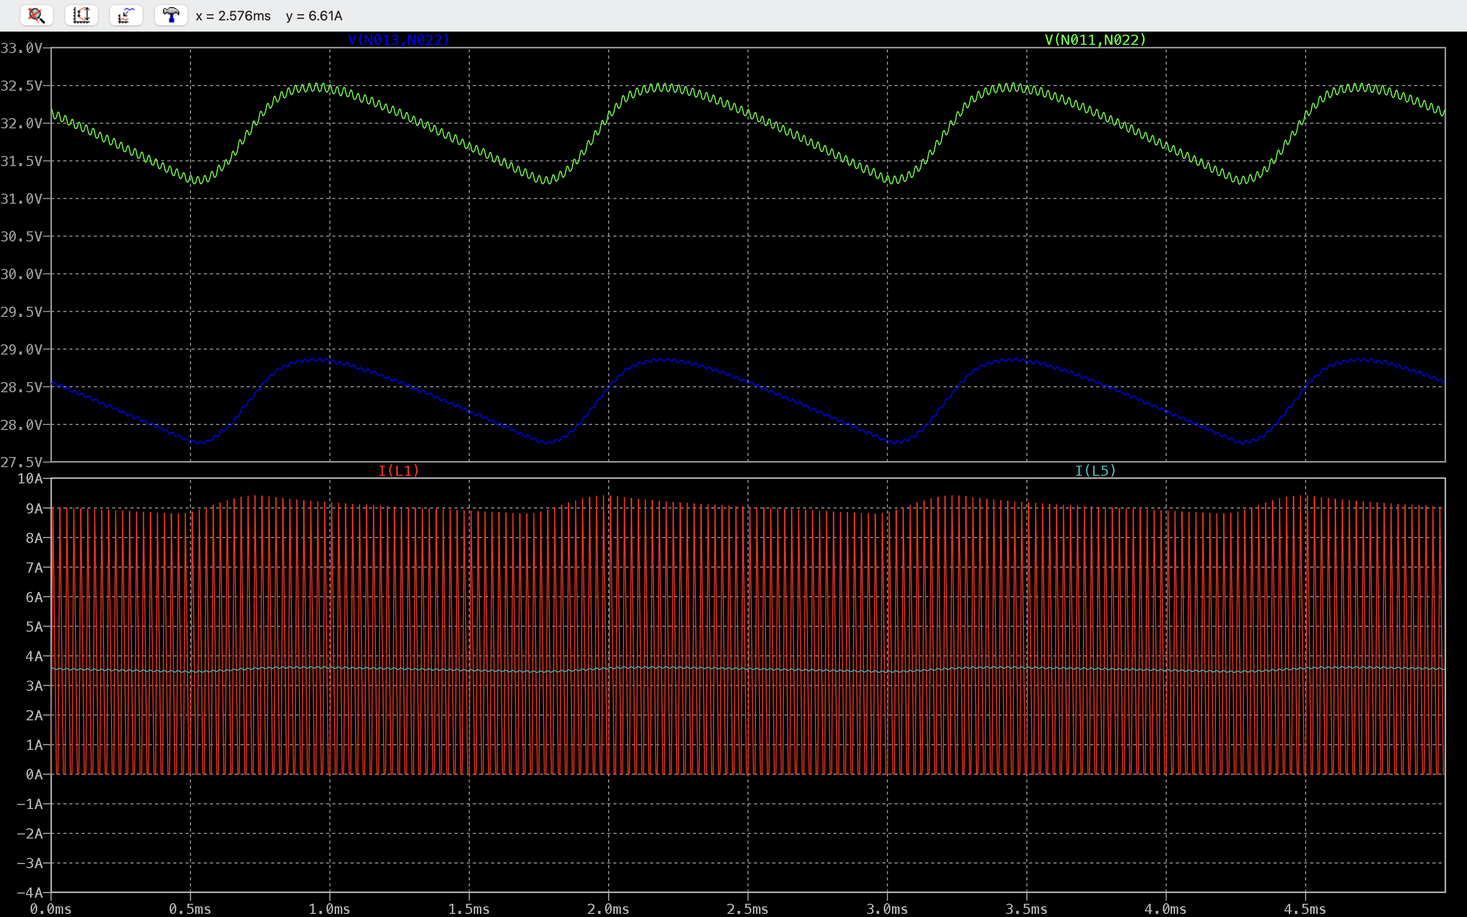
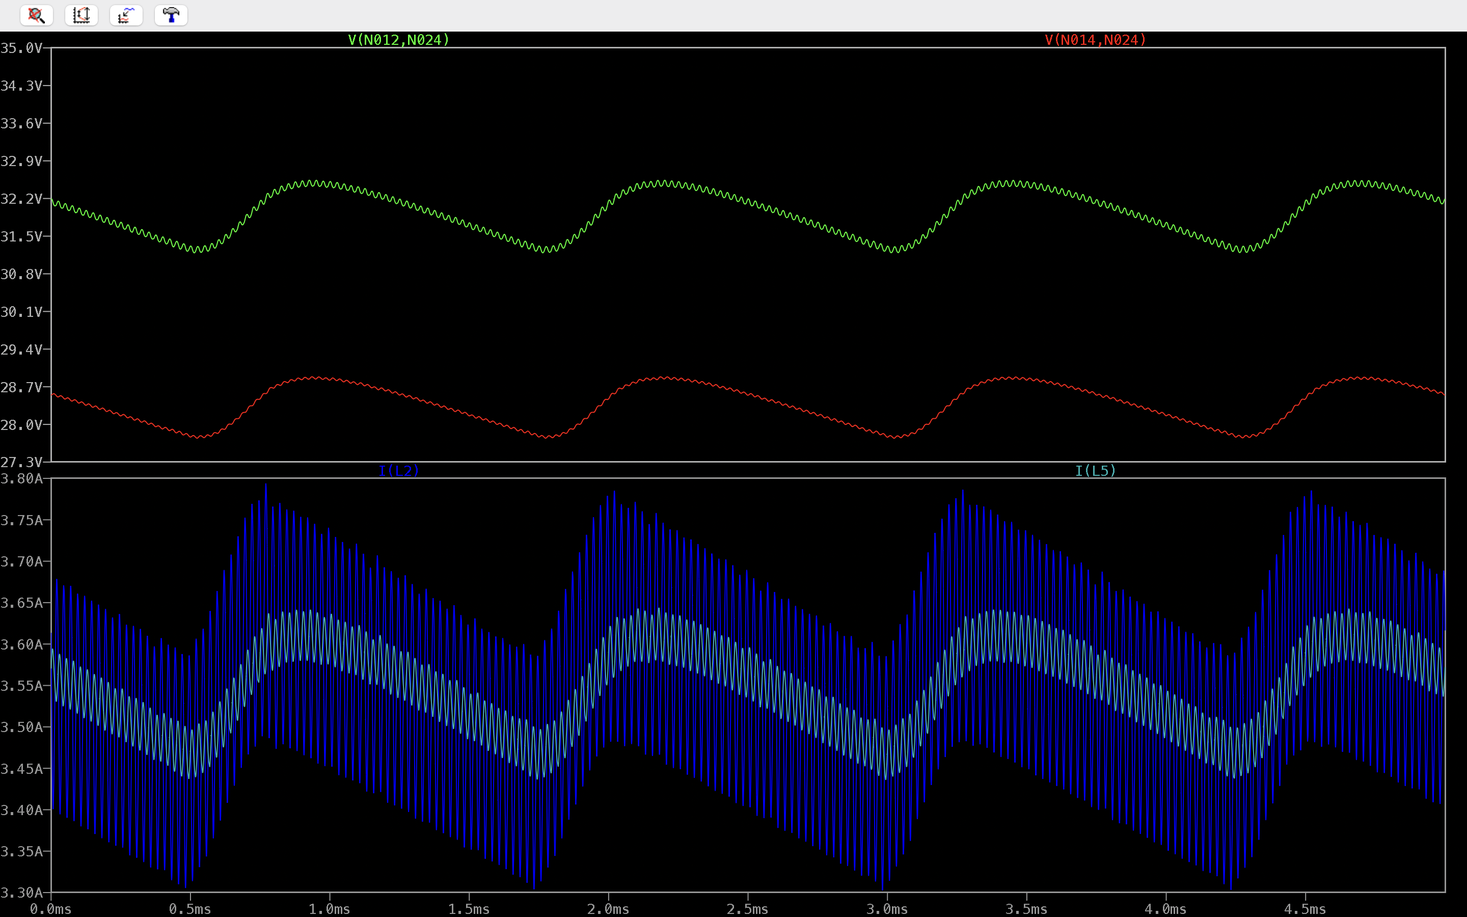
eep572 approaching end of paper writing

diff --git a/eep579_electromagnetic_compatibility/Assignments/final_project/report/final_project_paper.tex b/eep579_electromagnetic_compatibility/Assignments/final_project/report/final_project_paper.tex
@@ -91,7 +91,7 @@ Set A's waveform 4 injects a peak voltage that peaks according to a time variabl
 
 \subsection{High-Level Overview}
 
-Figure \ref{fig:ac_dc_converter_ideal_diagram} presents a high-level overview of an ideal AC-DC converter. The team opted to implement a modified 115$V_{AC}$ - 28$V_{DC}$ AC-DC converter that removed the transformer from the circuit as shown in Figure \ref{fig:ac_dc_converter_implemented_diagram}. Although an AC-DC converter may typically include a transformer to reduce common-mode noise when stepping down the $V_{AC}$, the team decided to eliminate the component to increase noise within the circuit's power path and instead, demonstrate the impact that proper filtering would have on load voltage and current. In practical applications found in the industry, if size and weight were not constraints, then a transformer would likely be included.
+Figure \ref{fig:ac_dc_converter_ideal_diagram} presents a high-level overview of an ideal AC-DC converter. The team opted to implement a modified 115$V_{AC}$ - 28$V_{DC}$ AC-DC converter that removed the transformer from the circuit as shown in Figure \ref{fig:ac_dc_converter_implemented_diagram}. Although an AC-DC converter may typically include a transformer to reduce common-mode noise when stepping down the $V_{AC}$, the team decided to eliminate the component to increase noise within the circuit's power path and instead, demonstrate the impact that proper filtering would have on load voltage and current. In practical applications found in the industry, if size and weight were not constraints, then a transformer would likely be included. Please refer to Appendix A for an image of the final AC-DC circuit design.
 
 \begin{figure}[htbp]
     \centering
@@ -109,7 +109,7 @@ Figure \ref{fig:ac_dc_converter_ideal_diagram} presents a high-level overview of
 
 \subsection{Input Filter}
 
-The input filter consists of two sub-circuits: (1) a pair of line-to-chassis ground capacitors and (2) a pair of RLC filters. The line-to-chassis ground Y-capacitors handle common-mode noise from the 115$V_{AC}$ input rail. Meanwhile, the two RLC circuits stabilize the voltage input of the full-wave rectifier. The two RLC circuit design, one per power rail, is borrowed from common industry best practices. Based on simulations, two RLC circuits moved the peak AC voltage down versus a single RLC circuit block. The trade-off between the inclusion of the damping resistors versus increased power consumption is okay for the main objectives of the project. Based on simulations, there was very little common-mode noise on the input of the 115$V_{AC}$ to 28$V_{DC}$, so no common-mode was included in the design. Refer to Figure \ref{fig:input_filter_top_level_diagram} for the top-level design of the input filter. 
+The input filter consists of four sub-circuits: (1) a pair of line-to-chassis ground capacitors (2) a pair of RLC filters (3) a TVS protection diode, and (4) a common-mode choke. The line-to-chassis ground Y-capacitors handle common-mode noise from the 115$V_{AC}$ input rail. Meanwhile, the two RLC circuits stabilize the voltage input of the full-wave rectifier. The two RLC circuit design, one per power rail, is borrowed from common industry best practices. Based on simulations, two RLC circuits moved the peak AC voltage down versus a single RLC circuit block. The trade-off between the inclusion of the damping resistors versus increased power consumption is okay for the main objectives of the project. Based on simulations, there was very little common-mode noise on the input of the 115$V_{AC}$ to 28$V_{DC}$, but a common-mode choke was still added to the input filter to block any common-mode noise coming from the outside world. Additionally, the common-mode choke will choke a lightning strike's commom-mode  input from impacting the rest of the circuit. A bidirectional TVS protection diode was added to meet DO-160G's lightning susceptibility requirements on the input side of the AC-DC converter. The diode will act as a low resistance path to ground when a large differential voltage spike occurs on the input line, which will protect the rest of the circuit since the voltage after the diode will remain constant while any current from transient voltage spikes are shunted to the return path. The diode is rated to shunt a differential lightning threat $>200V$. Refer to Figure \ref{fig:input_filter_top_level_diagram} for the top-level design of the input filter. 
 
 \begin{figure}[htp]
     \centering
@@ -138,24 +138,24 @@ Directly after the AC input filters, the AC signal is fed into a full-wave bridg
 
 A full-wave bridge rectifier was implemented because of its efficiency in comparison to a half-wave rectifier. The LTSpice model is shown in Figure \ref{fig:full-wave_bridge_rectifier_circuit_diagram}. For a full-wave rectifier, both cycles of the AC signal are converted into the DC signal. For a half-wave rectifier, only a single half cycle of the AC signal is transferred, while the other half cycle is blocked. 
 
-\begin{figure}[htp]
+\begin{figure}[hbp]
     \centering
-    \includegraphics[width=1.0\linewidth]{full-wave_bridge_rectifier_circuit.png}
+    \includegraphics[width=0.5\linewidth]{full-wave_bridge_rectifier_circuit.png}
     \caption{Full-Wave Bridge Rectifier Circuit}
     \label{fig:full-wave_bridge_rectifier_circuit_diagram}
 \end{figure}
 
 \subsection{Buck Converter}
-After the full-wave bridge rectifier is a Buck Converter. A buck converter is a DC-DC converter that steps down the DC input voltage using a voltage-controlled switch to generate a PWM output. After the PWM output, there is a bulk LC filter. The primary purpose of the bulk inductor and capacitor is to generate a stable stepped down DC output from the switching regulator's PWM input voltage. High-frequency noise introduced by the switching regulator will be handled by a separate block of output filtering components rather than by the bulk inductor and capacitor components. See Figure \ref{fig:buck_converter_circuit_diagram} for a diagram of a buck converter circuit.
+After the full-wave bridge rectifier is a Buck Converter. A buck converter is a DC-DC converter that steps down the DC input voltage using a voltage-controlled switch to generate a PWM output. After the PWM output, there is a bulk LC filter. The primary purpose of the bulk inductor and capacitor is to generate a stable stepped down DC output from the switching regulator's PWM input voltage. High-frequency noise introduced by the switching regulator will be handled by a separate block of output filtering components rather than by the bulk inductor and capacitor components. See Figure \ref{fig:buck_converter_circuit_diagram} for a generic diagram of a buck converter circuit.
 
 \begin{figure}[htp]
     \centering
     \includegraphics[width=1.0\linewidth]{buck_converter_circuit.png}
     \caption{Buck Converter Circuit}
-    \label{fig:buck_converter_circuit_diagram}
+    \label{fig:Buck Converter Voltage Output_circuit_diagram}
 \end{figure}
 
-The bulk inductor resists changes in current, so when the switch is turned off, it attempts to keep the current constant. Meanwhile, the bulk capacitor resists changes in voltage, and thus attempts to keep the output voltage constant. The LC circuit includes a protection diode to prevent the switch from being damaged by a reverse voltage spike from the inductor's stored energy when the switch turns ON again. In contrast, when the switch is turned OFF, the forward bias of the protection diode allows the inductor to discharge its stored current. See Figure \ref{fig:buck_converter_waveform_diagram} for a diagram of the expected output waveforms of the buck converter.
+The bulk inductor resists changes in current, so when the switch is turned off, it attempts to keep the current constant. Meanwhile, the bulk capacitor resists changes in voltage, and thus attempts to keep the output voltage constant. The LC circuit includes a protection diode to prevent the switch from being damaged by a reverse voltage spike from the inductor's stored energy when the switch turns ON again. In contrast, when the switch is turned OFF, the forward bias of the protection diode allows the inductor to discharge its stored current. See Figure \ref{fig:Buck Converter Voltage Output_waveform_diagram} for a diagram of the expected output waveforms of the buck converter.
 
 \begin{figure}[htp]
     \centering
@@ -166,12 +166,19 @@ The bulk inductor resists changes in current, so when the switch is turned off, 
 
 The team decided to move away from a linear regulator because the circuit is not as power-efficient as a switching regulator. The drawback of using a switching regulator is the voltage ripple introduced onto the DC output power rail due to the switching frequency. The switching noise and its harmonics will require output filtering to minimize the voltage ripple seen by the load and to guarantee that the conducted emissions of our circuit are below the DO-160G EMI conducted emissions threshold. 
 
-The switching voltage regulator will not use a feedback loop for auto-adjustment of the switch's duty cycle. For a power rail, typically a feedback loop would be used to adjust the switch's duty cycle so that the power rail can maintain a 28$V_{DC}$ output across a range of loads. The scope of this course focuses on EMI compliance and circuit design, so the 28$V_{DC}$ output will be optimized to meet the objective of 100$W$ power output in compliance with the DO-160G standard. If this were a power electronics course, then the team would have opted to design a feedback loop to the switching regulator so that the 115$V_{AC}$ to 28$V_{DC}$ converter would be complaint across loads.
+The switching voltage regulator will not use a feedback loop for auto-adjustment of the switch's duty cycle. For a power rail, typically a feedback loop would be used to adjust the switch's duty cycle so that the power rail can maintain a 28$V_{DC}$ output across a range of loads. The scope of this course focuses on EMI compliance and circuit design, so the 28$V_{DC}$ output will be optimized to meet the objective of 100$W$ power output in compliance with the DO-160G standard. If this were a power electronics course, then the team would have opted to design a feedback loop to the switching regulator so that the 115$V_{AC}$ to 28$V_{DC}$ converter would be compliant across loads. See Figure \ref{buck_converter_final_design.png} for the final design of the buck converter.
+
+\begin{figure}[htp]
+    \centering
+    \includegraphics[width=0.7\linewidth]{buck_converter_final_design.png}
+    \caption{Final Design of Buck Converter Subcircuit of AC-DC Converter}
+    \label{fig:buck_converter_final_design_diagram}
+\end{figure}
 
 \subsection{Output Filter}
 The output filter for this current circuit design must suppress the noise introduced by the switching regulator in the 150${kHz}$ - 152${MHz}$ range, prevent common-mode noise from propagating to the load and from the load side, and eliminate differential-mode noise from the load. 
 
-The output filter design is presented in Figure \ref{fig:output_filter_top_level_diagram}. The output filter consists of two stages of RLC filtering, followed by unit-side line-to-chassis ground Y-capacitors, a common-mode choke, and load-side line-to-chassis ground Y-capacitors. Each sub-circuit of the output filter will be further analyzed.
+The output filter consists of four sub-circuits: (1) first stage RLC filter, (2) a second stage RLC filter, (3) a common-mode choke and common-mode Y-capacitors on the unit-side and load-side of the converter, and (4) a TVS protection diode for handling lightning susceptibility on the load side of the AC-DC converter. The output filter design is presented in Figure \ref{fig:output_filter_top_level_diagram}.
 
 \begin{figure}[htp]
     \centering
@@ -184,22 +191,25 @@ As part of the output filter deconstruction, two RLC filters implemented to atta
 
 RLC filters were chosen for their damping resistor. Damping was considered necessary for two reasons. First, although the noise across the load was below the DO-160G emissions line, the margin was 2${db}$ for a harmonic of the switching regulator noise. To increase the margin, an LC filter with a larger capacitor or inductance could have been applied. The risk of increasing the capacitance or inductance was that the LC filter's resonance was already in the middle of the AFCS range, and increasing the capacitor or inductor value does not eliminate our resonant frequency risk. So, a low value damping resistor is included to provide a sufficient damping factor (>1) while balancing power consumption by the set of damping resistors.
 
-The second part of the output filter consists of a common-mode choke and Y-capacitors from rail-to-chassis ground on both the unit-side and load-side of the choke. From simulation, the common-mode noise was minimal, but we think it's good design practice to isolate the unit-side's common-mode noise and the load-side's common-mode noise.
+The third part of the output filter consists of a common-mode choke and Y-capacitors from rail-to-chassis ground on both the unit-side and load-side of the choke. From simulation, the common-mode noise was minimal, but we think it's good design practice to isolate the unit-side's common-mode noise and the load-side's common-mode noise. More importantly, the common-mode choke will protect against a common-mode lightning strike threat.
 
-\section{Simulation Setup}
-
-\subsection{Input Filter}
-
-\subsection{Full-Wave Bridge Rectifier}
-To model the full-wave bridge rectifier in LTSpice, t
-
-\subsection{Buck Converter}
-\subsubsection{Buck Converter Power Efficiency Estimation}
-\subsubsection{LC Filter Calculation}
-\subsection{Output Filter}
-
+The fourth part of the output filter consists of a unidirectional TVS protection diode, which protects against differential lightning threats $>50V$. As the converter only supports output current in one direction, the diode can be unidirectional.
 
 \section{Results}
+To evaluate the circuit design, components were selected to achieve the desired cutoff frequency while providing sufficient damping to minimize resonant behavior.
+
+The following formula was used to calculate the damping factor for all RLC filters in the design.
+$$ \text{Damping Factor} = \zeta = \frac{R}{2} \sqrt{\frac{C}{L}}$$
+
+AC sweeps were conducted on the input filter and on the output filter to determine their resonance frequencies with respect to the AFCS range. The resonance frequencies were then fed back into the design to size the value of the damping resistors $R$ to achieve a sufficient damping factor $\zeta$. The challenge of sizing the damping resistor was balancing the damping factor and the AC-DC converter's power efficiency. See Figure for an example on sizing the two-stage RLC output filters.
+
+\begin{figure}[htp]
+    \centering
+    \includegraphics[width=1.0\linewidth]{resonance_frequency_design_feedback_results.png}
+    \caption{Two-Stage RLC Filter Damping Resistor Sizing with Respect to AFCS frequency range}
+    \label{fig:resonance_frequency_design_feedback_results_waveform}
+\end{figure}
+
 \subsection{Input Filter}
 
 The input filter's RLC circuit, which lies between the full-wave bridge rectifier and the ac voltage source, forces the current across R2 to retain most of its ac sine wave characteristic. There are large current spikes on the ac input that occur as the signal oscillates, see Figure \ref{fig:ac_input_waveform}. The spikes are attributable to the diodes of the full-wave rectifier reaching their threshold voltage, which allows current to flow and charge the bulk capacitor of the full-wave bridge rectifier.
@@ -220,7 +230,7 @@ The common-mode noise from the ac input was very small and occurred when the dio
     \label{fig:ac_input_common_mode_y_cap_noise_waveform}
 \end{figure}
 
-The current measurement across R11 demonstrates how the inductor, L6, resists changes in current from the 115 $V_{ac}$ source and smooths the input waveform. The current across the RLC's capacitor, C16, is high-frequency noise shunted to the negative rail. The current after capacitor C16, measured across $R5$, is a clean ac input, see Figure \ref{fig:ac_input_rlc_waveforms}
+The current measurement across $R11$ demonstrates how the inductor, $L6$, resists changes in current from the 115 $V_{ac}$ source and smooths the input waveform. The current across the RLC's capacitor, $C16$, is high-frequency noise shunted to the negative rail. The current after capacitor $C16$, measured across $R5$, is a clean ac input as seen in Figure \ref{fig:ac_input_rlc_waveforms}. Similarily, the current measurement across $R12$ demonstrates how the inductors, $L7$, resists changes in the negative half of the input waveform. The current across capacitor $C15$ shows minimal ringing as a result of sudden changes in the current. 
 
 \begin{figure}[htp]
     \centering
@@ -250,32 +260,32 @@ The capacitors $C12$ and $C11$, which connect the power rails to chassis-ground,
 
 \subsection{Buck Converter}
 
-The buck converter drops the full-wave bridge rectifier from 102V to 33.6V as measured across the capacitor $C7$. The current output of the switching regulator is maintained constant by the inductor, $L1$, as demonstrated in Figure \ref{fig:buck_converter_lc_filter_waveforms}. There is a slight discharge and recharge of the inductor as a result of the recharge and discharge of the bulk capacitor on the output of the full-wave bridge rectifier. As a final leg of the buck converter, high frequency noise is shunted to ground by capacitor $C7$. Most of the high frequency noise comes from the switching regulator, so the capacitor is important for immediately removing noise introduced by the switch.
+The buck converter drops the full-wave bridge rectifier from 102V to 33.6V as measured across the capacitor $C8$ (dark blue). The current output of the switching regulator is maintained constant by the inductor, $L1$, as demonstrated in Figure \ref{fig:buck_converter_voltage_and_output_filter_rlc_filter_stage_1_waveforms}. There is a slight discharge and recharge of the inductor as a result of the recharge and discharge of the bulk capacitor on the output of the full-wave bridge rectifier. As a final leg of the buck converter, high frequency current noise is shunted to ground by capacitor $C8$ (green shows current across $C7$ after $C8$ shunts high frequency current noise to return path). Most of the high frequency current noise comes from the switching regulator, so the capacitor is important for immediately removing noise introduced by the switch.
 
 \begin{figure}[htp]
     \centering
-    \includegraphics[width=1.0\linewidth]{buck_converter_lc_filter_waveforms.png}
-    \caption{Buck Converter Voltage Output}
-    \label{fig:buck_converter_lc_filter_waveforms}
+    \includegraphics[width=1.0\linewidth]{buck_converter_and_output_filter_rlc_stage_1.png}
+    \caption{Buck Converter Output versus RLC Stage 1 Output}
+    \label{fig:buck_converter_voltage_and_output_filter_rlc_filter_stage_1_waveforms}
 \end{figure}
 
 \subsection{Output Filter}
-In Figure \ref{fig:output_filter_rlc_stage_1_waveforms} the input voltage of the buck converter is provided and is plotted against the output voltage of the first stage RLC filter, measured across $C7$. There is a slight voltage drop because of $R4$, but more importantly, much of the high-frequency voltage noise from the switch is choked by $L2$. The voltage noise is visibly lower for the $C7$ measurement compared to the $C8$ measurement. The capacitor $C7$ removed much of the high frequency noise on current line, as demonstrated by the current noise seen on the $L2$ current measurement versus the $L5$ current measurement. The power penalty of including the damping resistor $R4$ is about 6.2$W$.
-
-\begin{figure}[htp]
-    \centering
-    \includegraphics[width=1.0\linewidth]{output_filter_rlc_stage_1.png}
-    \caption{Output RLC Filter Stage 1}
-    \label{fig:output_filter_rlc_stage_1_waveforms}
-\end{figure}
-
-Figure \ref{fig:output_filter_rlc_stage_2_waveforms} continues to demonstrate the voltage noise and current noise clean-up that was discussed for the first stage current measurement. The power penalty of including the damping resistor $R3$ is about 12.6$W$
+In Figure \ref{fig:output_filter_rlc_stage_2_waveforms} the input voltage of the buck converter is provided and is plotted against the output voltage of the first stage RLC filter, measured across $C7$. There is a slight voltage drop because of $R4$, but more importantly, much of the high-frequency voltage noise from the switch is choked by $L2$. The voltage noise is visibly lower for the $C7$ measurement compared to the $C8$ measurement. The capacitor $C7$ removed much of the high frequency noise on current line, as demonstrated by the current noise seen on the $L2$ current measurement versus the $L5$ current measurement. The power penalty of including the damping resistor $R4$ is about 6.2$W$.
 
 \begin{figure}[htp]
     \centering
     \includegraphics[width=1.0\linewidth]{output_filter_rlc_stage_2.png}
-    \caption{Output RLC Filter Stage 2}
+    \caption{RLC Filter Stage 1 versus Stage 2 Output}
     \label{fig:output_filter_rlc_stage_2_waveforms}
+\end{figure}
+
+Figure \ref{fig:output_filter_load_after_rlc_stage_2_waveforms} continues to demonstrate the voltage noise and current noise clean-up that was discussed for the first stage current measurement. The power penalty of including the damping resistor $R3$ is about 12.6$W$
+
+\begin{figure}[htp]
+    \centering
+    \includegraphics[width=1.0\linewidth]{output_filter_load_waveform.png}
+    \caption{Load Voltage and Current After Stage 2 RLC, Common-Mode Choke, TVS Diode, and Y-Capacitors}
+    \label{fig:output_filter_load_after_rlc_stage_2_waveforms}
 \end{figure}
 
 In addition to the common-mode choke, the noise current across the line to chassis-ground capacitors on the unit side and the load side were very small as seen in Figure \ref{fig:output_filter_chassis_ground_y_capacitors_waveforms}. There was very little common-mode noise risk from either the load side or source side threatening the AC-DC converter circuit.  
@@ -289,23 +299,18 @@ In addition to the common-mode choke, the noise current across the line to chass
 
 \subsection{Load}
 
-The voltage across the measured load was averaged 28.369$V$ and can be seen in Figure \ref{fig:load_average_voltage_waveform}. The regulator frequency could be modified to reach a perfect 28$V$, but there is negligible benefit in optimizing the power path of our circuit for the scope of this course. The voltage swing is high at $1V$, but the solution to reduce the voltage swing would be to design a feedback loop to the switching regulator which is also outside the purpose of this course. The current across the load resistor $R1$ is also very clean and has a small current swing. The output filter capacitor $C14$ shunted much of the remaining high frequency noise from the converter output to the negative power rail.
-
-\begin{figure}[htp]
-    \centering
-    \includegraphics[width=1.0\linewidth]{load_average_voltage.png}
-    \caption{Average voltage across load}
-    \label{fig:load_average_voltage_waveform}
-\end{figure}
+The voltage across the measured load was averaged 28.369$V$ and can be seen in Figure \ref{fig:output_filter_load_after_rlc_stage_2_waveforms}. The regulator frequency could be modified to reach a perfect 28$V$, but there is negligible benefit in optimizing the power path of our circuit for the scope of this course. The voltage swing is high at $1V$, but the solution to reduce the voltage swing would be to design a feedback loop to the switching regulator which is also outside the purpose of this course. The current across the load resistor $R1$ is also very clean and has a small current swing. The output filter capacitor $C14$ shunted much of the remaining high frequency noise from the converter output to the negative power rail.
 
 Figure \ref{fig:load_fft_150kHz_16MHz_waveform} displays the FFT of the output current in ($dB \mu A$ across the frequency range 150$kHz$ to 152$MHz$. All current noise values in the FFT lied below the DO-160G conducted emissions limit line.
 
-\begin{figure}[htb]
+\begin{figure}[h]
     \centering
     \includegraphics[width=1.0\linewidth]{load_fft_150kHz_16MHz.png}
     \caption{FFT of current (dBuA) across load from 150$kHz$ to 16.55$MHz$ frequency range}
     \label{fig:load_fft_150kHz_16MHz_waveform}
 \end{figure}
+
+\clearpage
 
 \section{Discussion}
 \subsection{$V_{AC}$ Input Noise}
@@ -320,7 +325,7 @@ Prior to adding the input RLC filters, the noise from the voltage source did not
 
 Figure \ref{fig:input_filter_emissions_limit_waveform} shows the input current after filtering has occurred. DO-160G conducted emissions are met across the entire frequency band.
 
-\begin{figure}[htb]
+\begin{figure}[h]
     \centering
     \includegraphics[width=1.0\linewidth]{input_filter_emissions_limit.png}
     \caption{Baseline AC-DC Converter Input with Filtering Passing DO-160G Conducted Emissions Limit across 150$kHz$ - 16.55$MHz$ frequency range}
@@ -353,5 +358,22 @@ There are two lessons learned that should be pursued going forward. (1) The filt
 \nocite{*}
 \bibliographystyle{ieeetr}
 \bibliography{final_project.bib}
+
+\newpage
+
+\begin{appendices}
+
+\onecolumn
+
+\section{Final AC-DC Converter Circuit Diagram}
+
+\begin{figure*}[!htb]
+    \centering
+    \includegraphics[width=\textwidth]{ac_dc_ltspice_final_implementation.png}
+    \caption{Final 115$V_{AC}$ to 28$V_{DC}$ AC-DC Converter Circuit}
+    \label{fig:ac_dc_ltspice_final_implementation_waveform}
+\end{figure*}
+
+\end{appendices}
 
 \end{document}
